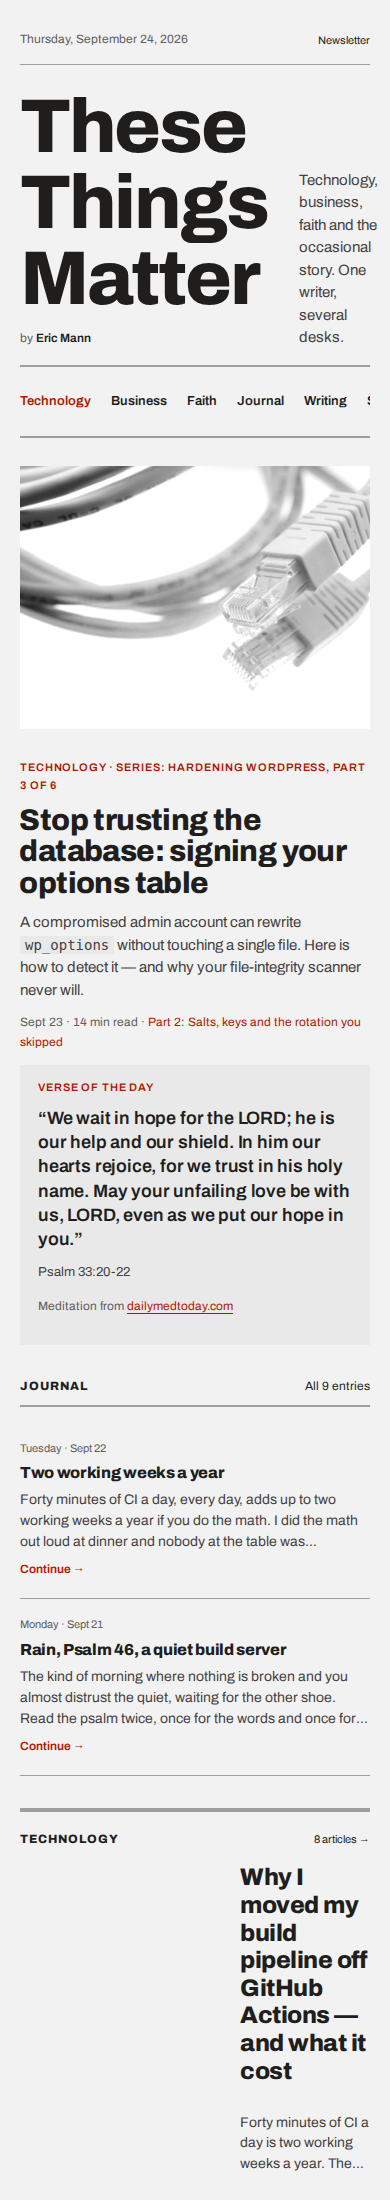
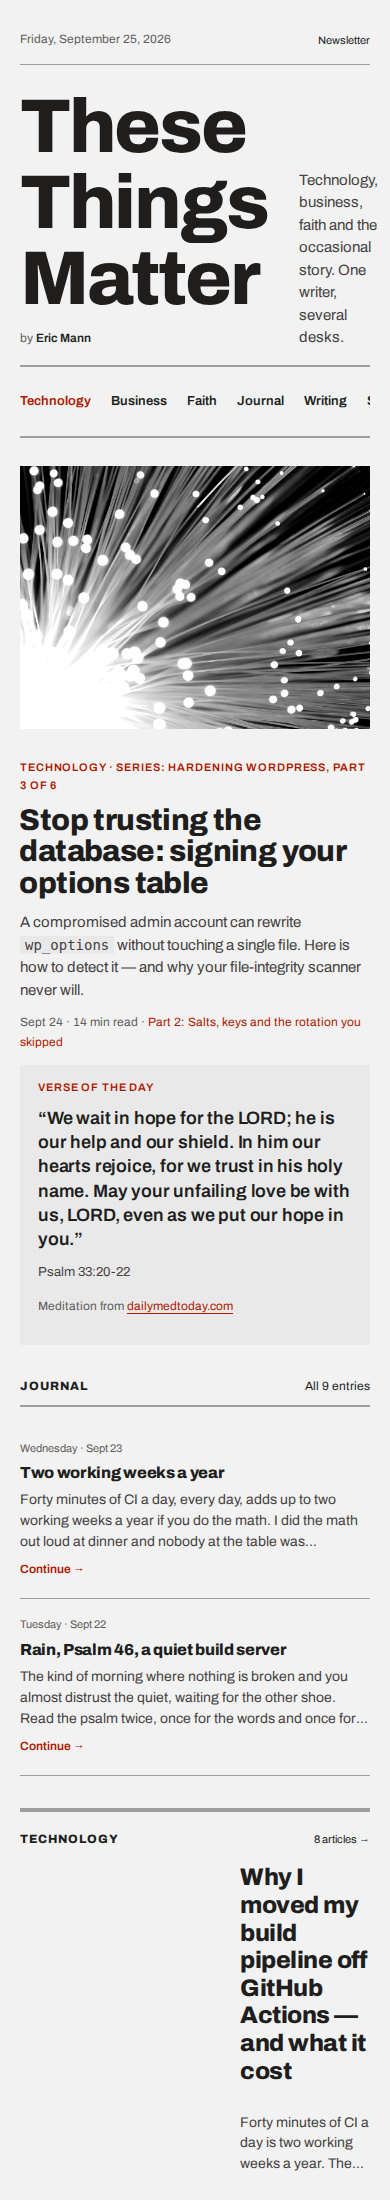
R1-04: Close-out: regenerate demo outputs and screenshots, fix HANDOFF, CI green including demo:check
Goal: Leave a clean tree with .github/ demo outputs, README and owner screenshots regenerated from the R1-02 photographs, and an accurate HANDOFF.
Tests: none (regeneration + docs task); npm run demo:check exit 0, npm run check:demo clean confirmed against the regenerated outputs.
Interpretation: none.
Measurement: demo images now 2,790,264 bytes total (was 1,585,649), largest 327,407 bytes, every one 1600px wide; article-1280.png needed the palette-reduction screenshot fallback this run (1,828,005 -> 704,453 bytes); npm audit and composer audit both clean.
Manual check: NOT VERIFIED (human) -- owner reviews the re-fetched photographs and the regenerated screenshots, runs npm run demo:check -- --keep and clicks through the four SPEC §6.4 pages and the post editor.

diff --git a/docs/HANDOFF.md b/docs/HANDOFF.md
@@ -3,8 +3,8 @@
 Branch `refine/2026-09-24` from `main`. This flight fixed the four owner-reported defects from
 phase 4, then built a full demo/open-source pipeline: real committed photographs, a generated
 WordPress Playground blueprint, a public README, a tagged release workflow, and CI wiring for
-all of it. 28 of 30 planned tasks are done; this document and the final screenshot/seed refresh
-(P4-03) close the flight.
+all of it. All 30 originally planned tasks plus four review-fix (`R1-*`) tasks are done; this
+document and the final screenshot/seed refresh close the flight.
 
 ## What changed, by phase
 
@@ -34,7 +34,30 @@ writes the three committed `.github/` outputs; `scripts/release/pack.mjs` builds
 plugin/theme zips; `scripts/demo/check.mjs` boots the blueprint headless in Playground (or checks
 a real site with `--url`) and asserts the SPEC §6.4 pages. CI runs the build/determinism/check
 steps after the drill. Four real bugs were found and fixed only by actually running the full
-pipeline against real content (see below); one gap remains open (see "Known limitation").
+pipeline against real content (see below).
+
+**Round 1 (review fixes) — the headless boot race and the real F3 cause.** `npm run demo:check`
+(no `--url`) was red in CI: `waitForBoot()` resolved on the front page's own HTML looking
+populated, which raced the blueprint's own final `wp eval` rebuild step — the worker pool starts
+answering requests before that step finishes, so the article/series/writing pages fetched right
+after could still hit pre-import state even though the front page's own probe had already passed.
+`scripts/demo/lib/boot.mjs`'s `isReady()` now waits for the `@wp-playground/cli` process's own
+"WordPress is running on" line, which the CLI only prints after every blueprint step (including
+the rebuild) has completed; `check.mjs` then makes exactly one sanity GET of `/` before asserting
+any page. Fixing the race also exposed and fixed the local variant's real attachment gap: it
+was never actually a Playground limitation as first believed, but WordPress's own SSRF guard
+(`wp_http_validate_url()`) rejecting the loopback static server by default. The local variant now
+ships a one-off mu-plugin (written by a `mkdir`+`writeFile` step before `importWxr`) that allows
+that run's own host/port through `http_request_host_is_external`/`http_allowed_safe_ports`, so
+attachments import for real in both the local-variant and `--url` paths; the demo-photograph
+assertions in `check-assertions.mjs` now run unconditionally, with no skip option. Separately,
+review F3 found that 8 of the 13 demo photographs had shipped narrower than
+`OPENVERSE_MIN_WIDTH` — Openverse's own search-result `width` metadata disagreed with the file
+its `url` field actually serves for some providers (stocksnap/rawpixel proxy everything through a
+fixed 960w/1024px thumbnail regardless of the claimed width). `acceptEncoded()` now judges the
+real decoded width/bytes after `sharp` re-encoding, not the API's metadata; all 8 flagged photos
+were re-fetched and hand-reviewed for taste. See R1-01/R1-02's task log entries in
+`docs/PROGRESS.md` for the full detail.
 
 **Phase 3 — public-facing.** Eight optimised README screenshots (`npm run screenshots --
 --readme`, `sharp`-compressed under `SCREENSHOT_MAX_BYTES`); the public README (open-in-Playground
@@ -51,40 +74,23 @@ empty; the CSS budget and both security audits recorded; this handoff.
 - **P1-06**: owner reviews the 13 demo photos and the six phase-5 screenshots for fit/crop/taste;
   swap a photo by adding its Openverse id to `scripts/demo/images.json`'s `exclude` array and
   running `npm run demo:fetch-images -- --only=<file>` (documented in `docs/SETUP.md`).
-- **P2-06/P2-07/P2-08/P3-04**: `npm run demo:check` (no `--url`) fails against real headless
-  Playground on a content-rendering gap that does not reproduce against a real site. See "Known
-  limitation" below — this needs a dedicated follow-up before CI's `demo:check` step can be
-  treated as a real release gate.
+- **P2-06/P2-07/P2-08/R1-01**: owner runs `npm run demo:check -- --keep` and clicks through the
+  four §6.4 pages (front, article, series, writing) plus the post editor on the booted Playground
+  instance it leaves running, confirming what CI's automated assertions can't see (visual layout,
+  the lead photo's crop, the editor sidebar).
 - **P3-04**: read `README.md` on GitHub (the branch view) as a stranger — screenshots render,
   links resolve, the Playground link works once `v0.2.0` is tagged and released.
 
-## Known limitation: headless Playground content-rendering gap
-
-`npm run demo:check` (no `--url`) boots the real demo content in WordPress Playground
-successfully (no crash, no timeout — both real bugs fixed this flight, see below) and its own
-internal `wp ttm demo:verify` step passes, but four of the pages it then fetches still show
-incomplete content: the article permalink 404s, and the front page's series strip, the series
-hub, and the Writing page's serial hero all render empty. This **does not** reproduce against a
-real site (`npm run demo:check -- --url http://localhost:8888` is fully green, as is every
-Playwright/PHPUnit test against the real seeded wp-env). It is most likely a discrepancy between
-the blueprint's own `wp eval` step (which runs the post-import rebuild) and the worker process
-that later serves each page request, each with its own copy of WordPress's non-persistent
-per-process object cache — `--workers=1` fixed it when it worked, but reproduced
-`@wp-playground/cli`'s own documented worker/file-lock deadlock warning as a real, repeated,
-indefinite hang, which is worse for a release gate than the content gap. Recorded in
-`docs/spikes/P2-01.md`'s "Playground result" section and `scripts/demo/check.mjs`'s own docblock.
-**This is CI's one red step** (`wp-env integration`'s `npm run demo:check -- --from dist/demo`);
-every other job and every other step in that job is green.
-
 ## Measurements
 
-- **Demo images**: 13 photographs, 1,585,649 bytes total, largest 320,902 bytes — both well under
-  `IMAGE_MAX_BYTES` (350000) and `IMAGE_BUDGET_BYTES` (8000000); neither was tuned.
-- **README screenshots**: all eight fit under `SCREENSHOT_MAX_BYTES` (1500000) with the lossless
-  `sharp` re-compression step alone (no file needed the palette-reduction fallback).
-  `article-1280.png` (the longest page) is the closest to the ceiling, at ~99.8% of the limit —
-  a longer article than the seed's own could tip a future run into the palette fallback, which
-  is expected, not a bug.
+- **Demo images**: 13 photographs, 2,790,264 bytes total, largest 327,407 bytes, every one
+  exactly 1600px wide (R1-02: `OPENVERSE_MIN_WIDTH`, enforced against the real decoded width, not
+  Openverse's own metadata) — both the per-file and total figures stay well under
+  `IMAGE_MAX_BYTES` (350000) and `IMAGE_BUDGET_BYTES` (8000000); neither constant was tuned.
+- **README screenshots**: all eight fit under `SCREENSHOT_MAX_BYTES` (1500000);
+  `article-1280.png` (the longest page, already the closest to the ceiling at the end of the last
+  flight) needed the palette-reduction fallback this time (1,828,005 → 704,453 bytes, ~47% of the
+  limit); every other screenshot fit with the lossless re-compression step alone.
 - **CSS budget**: `ttm.css` is 63090 bytes against a 63488-byte budget at the end of this flight
   (unchanged by this flight's own CSS-free tasks); kept as-is (no >1024-byte shrink to justify
   lowering it).
@@ -119,16 +125,16 @@ every other job and every other step in that job is green.
   content (confirmed with 0/30/124 WXR items, and by removing/reordering steps). The six
   post-import `wp-cli` steps became one combined `wp eval` step calling the same command classes
   directly.
-- **P2-06**: Playground's `fetchAttachments` never downloads a binary from a bare `127.0.0.1`
-  static server (only the WXR file's own fetch works) — the local-variant blueprint's
-  `demo:verify --attachments=<n>` is zeroed, and `checkPages()` skips its "has a real demo
-  photograph" assertions for the local path only (`--url` mode keeps them).
+- **R1-01**: `P2-06`'s `fetchAttachments`-never-downloads finding was itself only half the story
+  — the real cause was WordPress's SSRF guard, not Playground (see spike finding 2 above). Once
+  the local variant's mu-plugin allows its own loopback host, attachments import for real, so the
+  `demo:verify --attachments=<n>` zeroing and `checkPages()`'s skip option were both removed; the
+  assertions run unconditionally in every path.
 - **P2-06**: Node's global `fetch()` doesn't persist cookies across its own automatic
   redirect-following; Playground's `--login` redirects `/` to itself with a `Set-Cookie`, and a
   bare `fetch()` hits "redirect count exceeded" forever. `check.mjs` carries a shared cookie jar
-  across manual redirect-following for every request, and boot-readiness polls for real front-page
-  content rather than any sub-500 response (Playground's workers start accepting requests before
-  the blueprint's own import/rebuild step finishes).
+  across manual redirect-following for every request (boot-readiness itself is R1-01's
+  `isReady()`, waiting for the CLI's own ready line rather than probing any page — see above).
 - **P3-01**: a `clip` screenshot only ever captures what the *current* viewport renders — the
   390×844 phone viewport had to grow to 390×2200 before the phone shots' clipped capture (the same
   technique the pre-existing `range` crop already used).
@@ -151,7 +157,9 @@ pipeline runs entirely outside WordPress.
 1. `wp export` never writes `<wp:termmeta>`, in any invocation — term meta has to be injected
    from a side-channel read of the live site, not carried through the export.
 2. Playground's `importWxr` `fetchAttachments` fetches the WXR file itself fine over a local
-   `127.0.0.1` server, but never actually downloads an attachment binary from one.
+   `127.0.0.1` server, but never actually downloads an attachment binary from one -- later traced
+   (R1-01) to WordPress's own SSRF guard rejecting the loopback host by default, not a Playground
+   limitation; a one-off mu-plugin allowing that host/port fixes it.
 3. Term meta *does* survive `importWxr` intact once it's present in the WXR.
 4. A successful `wp-cli` blueprint step's stdout is never echoed to the CLI's own console, at any
    verbosity — only a failing step's output prints.
@@ -159,8 +167,11 @@ pipeline runs entirely outside WordPress.
    `PLAYGROUND_BOOT_TIMEOUT_MS`.
 6. (P2-07 follow-up) Category descriptions survive `importWxr` unconditionally; the six
    post-import `wp-cli` steps had to become one combined `wp eval` step (a real `php.wasm` memory
-   limit, not content-volume-dependent); `wp_cache_flush()` was needed for some pages to serve
-   real content at all (Playground's default Redis object cache).
+   limit, not content-volume-dependent).
+7. (R1-01 follow-up) The real cause of the once-red `demo:check` step was a boot-readiness race,
+   not per-worker object-cache splitting: the CLI's worker pool starts answering requests before
+   the blueprint's own last step (the combined `wp eval` rebuild) finishes. Waiting for the CLI
+   process's own "WordPress is running on" ready line before fetching any page removes the race.
 
 ## Owner steps
 
@@ -174,8 +185,8 @@ pipeline runs entirely outside WordPress.
    GitHub Release (not a draft, with generated notes).
 4. Confirm the two release assets (`ttm-core.zip`, `ttm-theme.zip`) are attached and each unpacks
    to one top-level directory.
-5. Open the README's "Open in WordPress Playground" link and confirm it boots successfully — see
-   "Known limitation" above; this is not guaranteed by CI today.
+5. Open the README's "Open in WordPress Playground" link and confirm it boots successfully; CI's
+   integration job now runs `npm run demo:check` (no `--url`) as a real gate (R1-01).
 6. Approve or swap any of the 13 demo photographs (`docs/SETUP.md`'s "Replacing a demo
    photograph" section has the steps).
 7. Confirm the verse-sample licence note in `docs/fixtures/demo/LICENSE.md` (the sample verse is
